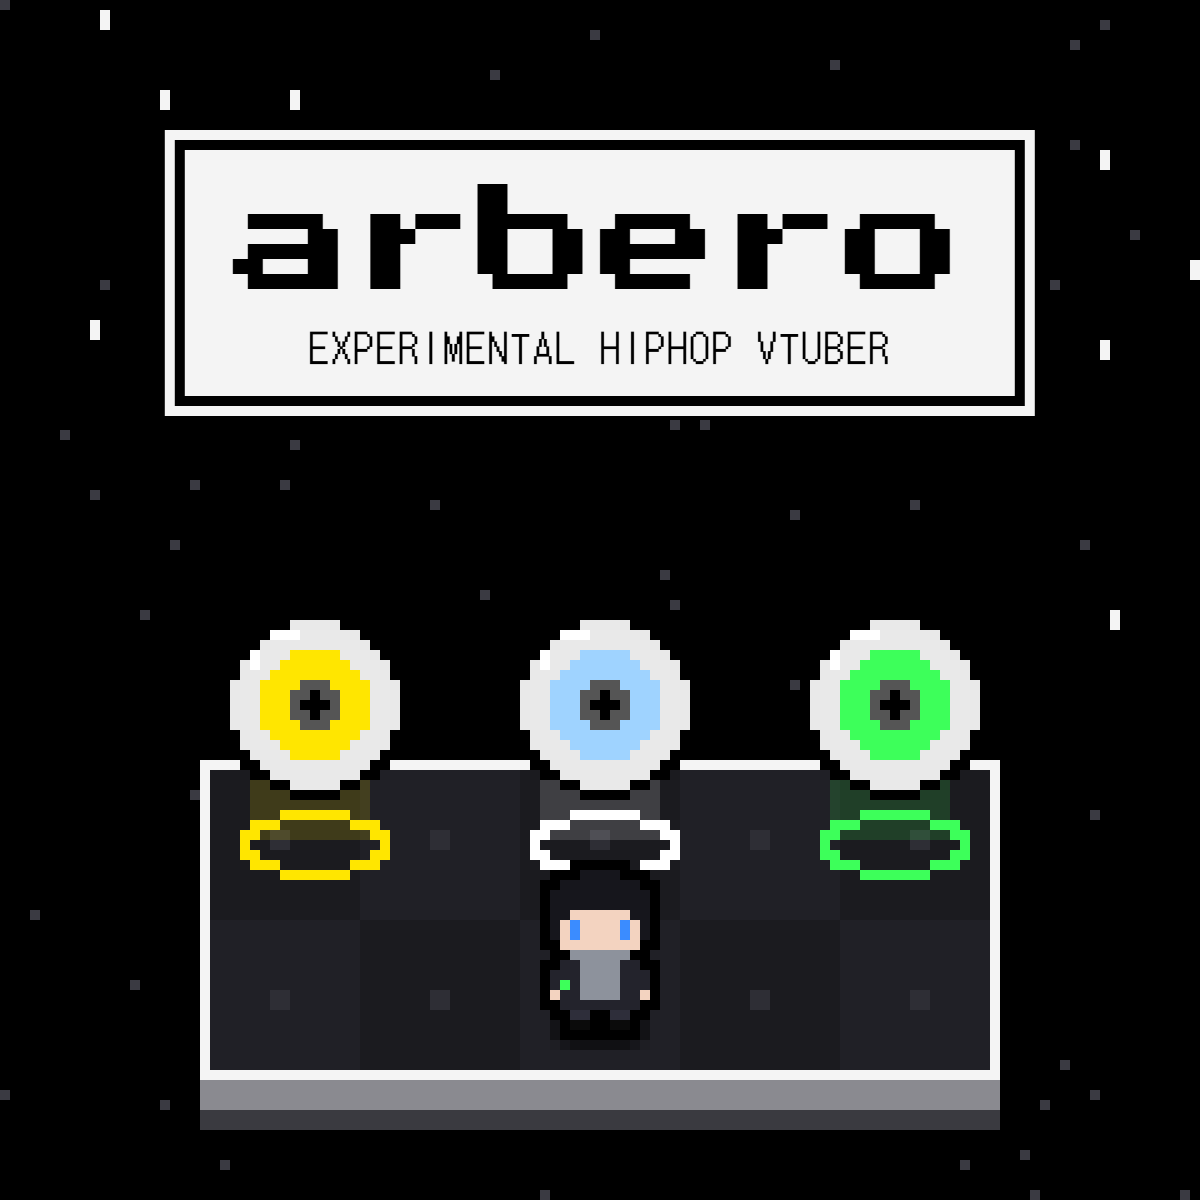
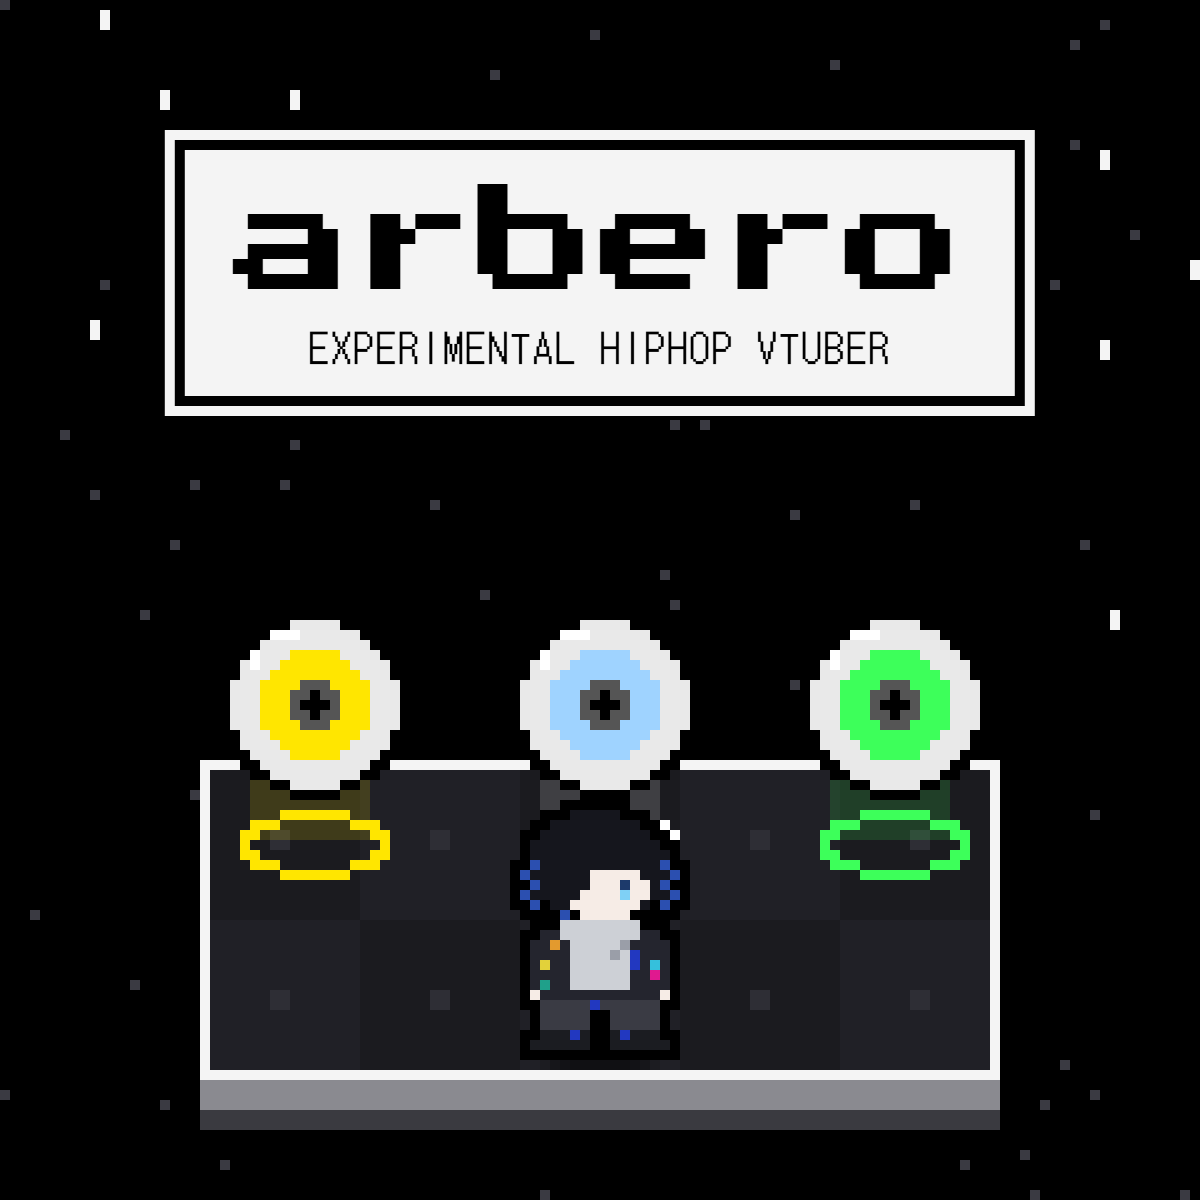
Use the new arbero sprite in the OGP image

Changed region(s): [[0.4008, 0.6475, 0.5858, 0.8942]]

diff --git a/scripts/ogp.html b/scripts/ogp.html
@@ -41,15 +41,39 @@ ctx.fillRect(fx, fy, cols * T, 1); ctx.fillRect(fx, fy, 1, rows * T); ctx.fillRe
 ctx.fillStyle = '#8a8a90'; ctx.fillRect(fx, fy + rows * T, cols * T, 3);
 ctx.fillStyle = '#3a3a40'; ctx.fillRect(fx, fy + rows * T + 3, cols * T, 2);
 
-// arbero（src/main.js のスプライトと同じ）
-const PAL = { k: '#16161c', s: '#f3d3c0', b: '#3b8cff', g: '#8d929c', j: '#23232c', p: '#3dff5a', d: '#2e2e3a', h: '#0b0b0b' };
-const rowsD = ['....kkkk....', '..kkkkkkkk..', '.kkkkkkkkkk.', '.kkkkkkkkkk.', '.kksssssskk.', '.ksbssssbsk.', '.ksbssssbsk.', '..ssssssss..',
-  '...gggggg...', '..jjggggjj..', '.jjjggggjjj.', '.jpjggggjjj.', '.sjjggggjjs.', '..jjjjjjjj..', '...dd..dd...', '...hh..hh...'];
+// arbero（src/main.js のスプライトの「正面・立ち」と同じ）
+const PAL = { a: '#15161d', b: '#2b4fb0', c: '#f6ece6', d: '#1d3a6b', e: '#7fd0f5', f: '#cdd0d6', g: '#35c0dc', h: '#24252e', i: '#e39a2e', j: '#9a9ea8', k: '#eef0f4', l: '#2238c0', m: '#e0198f', n: '#e2d13a', o: '#1fa08a', p: '#3a3b44', q: '#1b1c21' };
+const rowsD = [
+  '.....aaaaa......',
+  '...aaaaaaaaa....',
+  '..aaaaaaaaaaa...',
+  '.aaaaaaaaaaaaa..',
+  '.aaaaaaaaaaaaaa.',
+  '.baaaaaaaaaaaab.',
+  'baaaaaacccccaaab',
+  '.baaaaacccdccab.',
+  'baaaaacccceccaab',
+  '.b.aaccccccca.b.',
+  '....b.ccccc.....',
+  '....ffffffff....',
+  '..hhffffffffhh..',
+  '.hhihfffffjhhhh.',
+  '.hhhhffffjflhhh.',
+  '.hnhhfffffflhgh.',
+  '.hhhhffffffhhmh.',
+  '.hohhffffffhhhh.',
+  '.chhhhhhhhhhhhc.',
+  '..ppppplpppppp..',
+  '..ppppp..ppppp..',
+  '..ppppp..ppppp..',
+  '..qqqlq..qlqqq..',
+  '.qqqqqq..qqqqqq.',
+];
 function sprite(rows, ox, oy) {
   rows.forEach((r, y) => [...r].forEach((ch, i) => { if (ch !== '.') { ctx.fillStyle = '#000'; ctx.fillRect(ox + i, oy + y, 3, 3); } }));
   rows.forEach((r, y) => [...r].forEach((ch, i) => { if (ch !== '.') { ctx.fillStyle = PAL[ch]; ctx.fillRect(ox + i + 1, oy + y + 1, 1, 1); } }));
 }
-const px = 60, py = 103; // 足もと
+const px = 60, py = 105; // 足もと
 
 // CD（CREATIVE / Penguin / ProMotion の色）。床の台座の上に浮かせる。ドット絵らしく 1 画素ずつ塗る
 function disc(cx, base, col, ring) {
@@ -74,7 +98,7 @@ disc(31, 84, "#ffe600", "#ffe600");
 disc(60, 84, "#9fd3ff", "#ffffff");
 disc(89, 84, "#3dff5a", "#3dff5a");
 // arbero を CD より手前に
-ctx.fillStyle = 'rgba(0,0,0,.5)'; ctx.beginPath(); ctx.ellipse(px, py, 5, 2, 0, 0, Math.PI * 2); ctx.fill();
-sprite(rowsD, px - 7, py - 17);
+ctx.fillStyle = 'rgba(0,0,0,.5)'; ctx.beginPath(); ctx.ellipse(px, py, 7, 2, 0, 0, Math.PI * 2); ctx.fill();
+sprite(rowsD, px - 9, py - 25);
 </script>
 </html>
